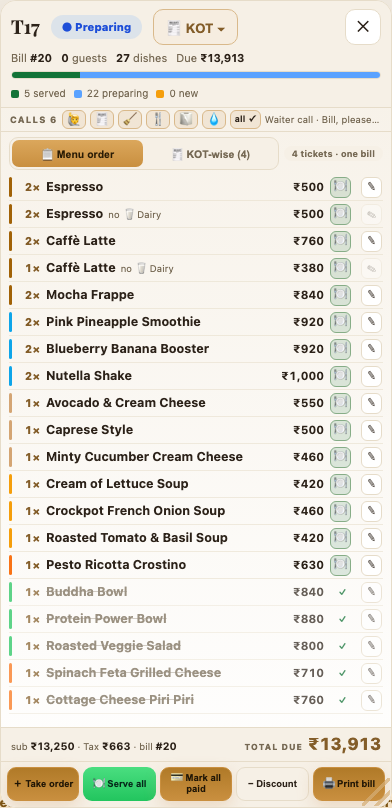
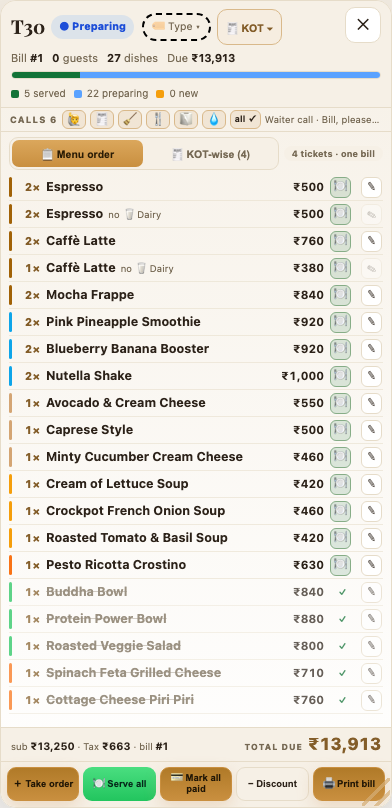
chore(bill popup states): re-photograph every state after the accept box moved to the foot
18 states, re-shot against the live panel: the waiting ticket is now the box at the FOOT of the
bill with every dish showing (02) and the same on a phone (03); the tap-to-open accept sheet is
gone with the state it belonged to; the table's mark opens the type picker (12). capture.mjs
follows the new markup (.sp-newbox) and shoots the picker too.

diff --git a/bill-popup-states/index.html b/bill-popup-states/index.html
@@ -30,7 +30,7 @@ code{background:#171a20;border:1px solid var(--line);border-radius:5px;padding:1
 <header>
   <h1>The bill popup — every state it can be in, and one live one</h1>
   <p>Every picture below is the <b>real popup in the real app</b>, photographed by driving the manager panel
-  (table 17 on the backup stack, 17/9/2026, 1:31:48 pm). Nothing is drawn by hand.</p>
+  (table 30 on the backup stack, 17/9/2026, 6:41:23 pm). Nothing is drawn by hand.</p>
   <p>What it is keeping to: <b>one dish per line, in the menu's own order</b> · the course is only the coloured spine
   (no words, no chip strip) · <b>the same dish from two tickets is one line</b> with the breakdown inside it ·
   <b>everything served sinks to the bottom</b> · the party sits in the head beside the table's mark ·
@@ -47,17 +47,14 @@ code{background:#171a20;border:1px solid var(--line);border-radius:5px;padding:1
 
 <h2>Every state</h2>
 <div class="grid"><figure class="c">
-    <div class="shotwrap"><img src="shots/01-free.png" alt="01-free" loading="lazy"></div>
-    <figcaption><b>01 · free</b><span></span></figcaption>
-  </figure><figure class="c">
     <div class="shotwrap"><img src="shots/01-take-order.png" alt="01-take-order" loading="lazy"></div>
     <figcaption><b>01 · take order</b><span>A free table has nothing to read, so tapping it goes straight to ＋ Take order — the dish builder.</span></figcaption>
   </figure><figure class="c">
     <div class="shotwrap"><img src="shots/02-waiting.png" alt="02-waiting" loading="lazy"></div>
-    <figcaption><b>02 · waiting</b><span>A guest's order has landed. It is ONE amber line, not on the bill yet: what came, what it costs, ✓ Accept, ✕.</span></figcaption>
+    <figcaption><b>02 · waiting</b><span>A guest's order has landed. It sits at the FOOT of the bill — above the money and the buttons — with every dish showing: quantity, what to leave out, money, the order-wide avoid, then Cancel and Accept.</span></figcaption>
   </figure><figure class="c">
-    <div class="shotwrap"><img src="shots/03-accept-detail.png" alt="03-accept-detail" loading="lazy"></div>
-    <figcaption><b>03 · accept detail</b><span>Tap that line and the incoming ticket opens dish by dish — quantities, money, what to avoid in every dish — with Cancel and Accept at the end.</span></figcaption>
+    <div class="shotwrap"><img src="shots/03-waiting-phone.png" alt="03-waiting-phone" loading="lazy"></div>
+    <figcaption><b>03 · waiting phone</b><span>The same waiting ticket on a phone: it is at the bottom, which is where the thumb already is.</span></figcaption>
   </figure><figure class="c">
     <div class="shotwrap"><img src="shots/04-accepted.png" alt="04-accepted" loading="lazy"></div>
     <figcaption><b>04 · accepted</b><span>Accepted. Its dishes are now on the bill, in their menu place, and the amber line is gone.</span></figcaption>
@@ -88,6 +85,9 @@ code{background:#171a20;border:1px solid var(--line);border-radius:5px;padding:1
   </figure><figure class="c">
     <div class="shotwrap"><img src="shots/11-tag-vip.png" alt="11-tag-vip" loading="lazy"></div>
     <figcaption><b>11 · tag vip</b><span>Marked VIP.</span></figcaption>
+  </figure><figure class="c">
+    <div class="shotwrap"><img src="shots/12-type-picker.png" alt="12-type-picker" loading="lazy"></div>
+    <figcaption><b>12 · type picker</b><span>Tapping the mark itself opens the picker — VIP, Family, Owner's guest, or Remove mark.</span></figcaption>
   </figure><figure class="c">
     <div class="shotwrap"><img src="shots/14-discount.png" alt="14-discount" loading="lazy"></div>
     <figcaption><b>14 · discount</b><span>A discount on the bill: the money line carries it, and the total is what is due.</span></figcaption>
